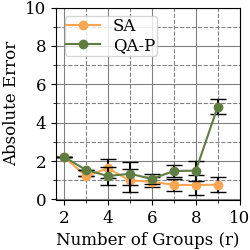
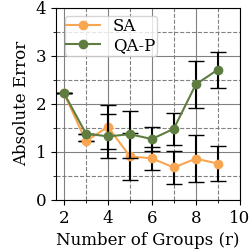
modified scale of accuracy plot. Using 10 trials for each configuration

diff --git a/QuantumWalk/ConvertAndAnneal/job.py b/QuantumWalk/ConvertAndAnneal/job.py
@@ -1,7 +1,7 @@
 number = "5"
 path = "/workspace/QuantumCognition/QuantumWalk/ConvertAndAnneal/"
-annealMethods = ["simulated","QPU"]
-groups=[2,3,4,5,6,7,8]
+annealMethods = ["QPU"]
+groups=[6,7,8]
 
 with (open(f'{path}joblist.txt', 'w') as f):
     for annealMethod in annealMethods:
@@ -11,7 +11,7 @@ with (open(f'{path}joblist.txt', 'w') as f):
                 fname = path+f"Results/{annealMethod}{number}/{annealMethod}_group{group}_BQM"
                 command_str = f"/usr/local/bin/python /workspace/QuantumCognition/QuantumWalk/ConvertAndAnneal/ConstructBQM.py {group} > {fname}; "
                 f.write(command_str)
-                for i in [5,6,7,8,9,10]:
-                    fname = path+f"Results/{annealMethod}{number}/{annealMethod}_group{group}_attempt{i+1}"
+                for i in [11,12,13]:
+                    fname = path+f"Results/{annealMethod}{number}/{annealMethod}_group{group}_attempt{i}"
                     command_str = f"/usr/local/bin/python /workspace/QuantumCognition/QuantumWalk/ConvertAndAnneal/anneal.py {annealMethod} > {fname}; "
                     f.write(command_str)

diff --git a/QuantumWalk/ConvertAndAnneal/plots.py b/QuantumWalk/ConvertAndAnneal/plots.py
@@ -134,8 +134,8 @@ ax.errorbar(x, qa_accuracy, yerr = sa_acc_std, ls='none', capsize=6, color='k')
 ax.plot(x, qa_accuracy, '-o', color='#5f7d41',label="QA-P")
 major_ticks = [2,4,6,8,10]
 minor_ticks = [2,3,4,5,6,7,8,9,10]
-ymajor_ticks = [0,2,4,6,8,10]
-yminor_ticks = [0,1,2,3,4,5,6,7,8,9,10]
+ymajor_ticks = [0,1,2,3,4]
+yminor_ticks = [0,0.5,1,1.5,2,2.5,3.5,4]
 ax.set_xticks(major_ticks)
 ax.set_xticks(minor_ticks, minor=True)
 ax.set_yticks(ymajor_ticks)

diff --git a/QuantumWalk/ConvertAndAnneal/ConstructBQM.py b/QuantumWalk/ConvertAndAnneal/ConstructBQM.py
@@ -310,7 +310,7 @@ if __name__ == "__main__":
     #for 9  : -1
     #for 10 : 
     #for 11 : 
-    L = sp.Symbol('-3.5')
+    L = sp.Symbol('-3.35')
     D_pl = Hp_new_num_exp - L*Cp_num_exp
 
     D_pl = D_pl.subs(L,float(str(L)))
